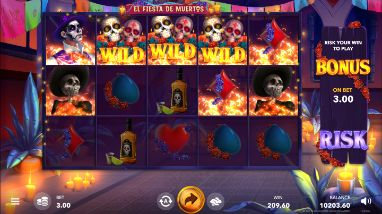
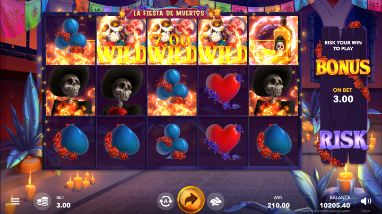
fiesta game rename

diff --git a/src/blog-sweepstakes.html b/src/blog-sweepstakes.html
@@ -73,7 +73,7 @@
   <title>Sweepstakes gaming systems</title>
   <meta name="description" content="Sweepstakes usage in gambling. Peculiarities of sweepstakes gaming systems">
   <meta name="viewport" content="height=device-height,width=device-width, initial-scale=1" />
-    <base href="https://mascot.games/">
+  <base href="https://mascot.games/">
   <link rel="stylesheet" href="css/all.unmin.css">
   <link rel="shortcut icon" href="/favicon.ico">
   <link rel="icon" sizes="16x16 32x32 64x64" href="/favicon.ico">
@@ -211,7 +211,7 @@
     <div class="container">
       <div class="text-block">
         <h5>About the sweepstakes</h5>
-        <p>Originally sweepstakes is a promotional tool for seize clients which can be described in a nutshell as “make some motion and take a chance to win a prize”. When we see Facebook publishing about a chance to win iPhone for the first dozen of company account subscribers or when a car brand registrate you as a participant in contest for Maldives tickets (as long as you buy their cars, of course) - all this is an old good sweepstakes game. </p>
+        <p>Originally sweepstakes is a promotional tool for seize clients which can be described in a nutshell as &ldquo;make some motion and take a chance to win a prize&rdquo;. When we see Facebook publishing about a chance to win iPhone for the first dozen of company account subscribers or when a car brand registrate you as a participant in contest for Maldives tickets (as long as you buy their cars, of course) &ndash; all this is an old good sweepstakes game. </p>
           <div class="blog-img-wrap" id="back_3"><img src="images/img_blog_entry1_2.jpg" alt="" class="text-block-img img-responsive image-center"></div>
         <p>
           The sweepstakes that is considered as a classic model of such promotion strategy is a well known McDonald's Monopoly game. This lottery is held by the biggest fast food chain all over the world for more than 30 years. The game implies the following: when you purchase something in a restaurant you get a coupon. Coupons value different: some of them are instantly exchanged for food, for example for cheeseburger. Other coupons display the fields of the Monopoly board and if you want to win something valuable you have to collect some property from this board. Obviously for collecting something really worthy you have to buy McDonald's food over and over again.
@@ -219,7 +219,7 @@
         <p>So what is the connection between the sweepstakes and iGaming?
         </p>
 
-        <p>Nowadays the sweepstakes cafes have a wide prevalence in gambling sphere. Sweepstakes cafe implied land-based gaming projects, which give a chance to win some prize when buying some service or product. Most often products or services are telephone cards or internet time, but in general “product” can represent anything. Entering the sweepstakes by buying this things consumer take a right to play some game (usually it's video-slot) without actually paying for it. If the guest doesn't pay to play, then he doesn't risk anything, which means that the game is not gambling. However, the prizes in this game are quite real and are expressed in money equivalent. Such practice helps to provide the opportunity to play slot-games in countries where gambling is illegal.
+        <p>Nowadays the sweepstakes cafes have a wide prevalence in gambling sphere. Sweepstakes cafe implied land-based gaming projects, which give a chance to win some prize when buying some service or product. Most often products or services are telephone cards or internet time, but in general &ldquo;product&rdquo; can represent anything. Entering the sweepstakes by buying this things consumer take a right to play some game (usually it's video-slot) without actually paying for it. If the guest doesn't pay to play, then he doesn't risk anything, which means that the game is not gambling. However, the prizes in this game are quite real and are expressed in money equivalent. Such practice helps to provide the opportunity to play slot-games in countries where gambling is illegal.
         </p>
       </div>
       <div class="single-blog-button-wrapper">

diff --git a/src/la-fiesta-de-muertos.html b/src/la-fiesta-de-muertos.html
@@ -67,8 +67,8 @@
   </script>
   <noscript><div><img src="https://mc.yandex.ru/watch/48502577" style="position:absolute; left:-9999px;" alt="" /></div></noscript>
     <meta charset="UTF-8">
-    <title>El Fiesta De Muertos video slot by Mascot Gaming</title>
-    <meta name="description" content="El Fiesta De Muertos by Mascot Gaming is a video slot with Bonus Game and Sticky Respin feature.">
+    <title>La Fiesta De Muertos video slot by Mascot Gaming</title>
+    <meta name="description" content="La Fiesta De Muertos by Mascot Gaming is a video slot with Bonus Game and Sticky Respin feature.">
     <meta name="viewport" content="height=device-height,width=device-width, initial-scale=1" />
     <base href="https://mascot.games/">
     <link rel="stylesheet" href="css/all.unmin.css">
@@ -91,13 +91,13 @@
     <link rel="apple-touch-icon" sizes="180x180" href="/favicon-180.png">
     <script src="js/all.unmin.js"></script>
     <meta content='summary_large_image' name='twitter:card'/>
-    <meta name="twitter:title" content="El Fiesta De Muertos video slot by Mascot Gaming" />
-    <meta name="twitter:description" content="El Fiesta De Muertos by Mascot Gaming is a video slot with Bonus Game and Sticky Respin feature." />
+    <meta name="twitter:title" content="La Fiesta De Muertos video slot by Mascot Gaming" />
+    <meta name="twitter:description" content="La Fiesta De Muertos by Mascot Gaming is a video slot with Bonus Game and Sticky Respin feature." />
     <meta name="twitter:image" content="https://mascot.games/images/game_fiesta.jpg" />
 
-    <meta property="og:title" content="El Fiesta De Muertos video slot by Mascot Gaming" />
-    <meta property="og:description" content="El Fiesta De Muertos by Mascot Gaming is a video slot with Bonus Game and Sticky Respin feature." />
-    <meta property="og:url" content="https://mascot.games/el-fiesta-de-muertos.html" />
+    <meta property="og:title" content="La Fiesta De Muertos video slot by Mascot Gaming" />
+    <meta property="og:description" content="La Fiesta De Muertos by Mascot Gaming is a video slot with Bonus Game and Sticky Respin feature." />
+    <meta property="og:url" content="https://mascot.games/la-fiesta-de-muertos.html" />
     <meta property="og:image" content="https://mascot.games/images/game_fiesta.jpg" />
 </head>
 
@@ -200,7 +200,7 @@
                       <a href="games.html" class="go-back"><span class="back-arrow"></span>Games</a>
                     </div>
                     <div class="col inner-header-title">
-                      <h1 class="light-title text-center">El Fiesta De Muertos</h1>
+                      <h1 class="light-title text-center">La Fiesta De Muertos</h1>
                       <!-- <p class="subtitle light-subtitle text-center">Find ancient treasures</p> -->
                     </div>
                   </div>
@@ -242,7 +242,7 @@
                   </div>
                   <div class="game-description-wrapper text-center">
                       <div class="game-slide-img-title">
-                          <img src="images/logo_fiesta.png" srcset="images/logo_fiesta@2x.png 2x" class="img-responsive" alt="El Fiesta De Muertos">
+                          <img src="images/logo_fiesta.png" srcset="images/logo_fiesta@2x.png 2x" class="img-responsive" alt="La Fiesta De Muertos">
                       </div>
                       <p class="game-slide-descr">Bring your masks and calaveras, and may the dead repay you with great treasures!</p>
                       <div class="game-description__game-type">Video slot</div>

diff --git a/src/index.html b/src/index.html
@@ -229,11 +229,11 @@
   <div class="header-slider__wrap">
     <div class="header-slider mobile">
       <div class="game1__wrap tile">
-        <img class="img-responsive" src="images/game_fiesta.jpg" alt="El Fiesta De Muertos" />
+        <img class="img-responsive" src="images/game_fiesta.jpg" alt="La Fiesta De Muertos" />
         <div class="game-overlay">
-          <a href="el-fiesta-de-muertos.html">
+          <a href="la-fiesta-de-muertos.html">
           <div class="game-overlay__top">
-            <div class="game-overlay__top-title">El Fiesta De Muertos</div>
+            <div class="game-overlay__top-title">La Fiesta De Muertos</div>
             <div class="game-overlay__top-info"><span>Learn more</span><span class="info-icon">i</span></div>
           </div>
           </a>
@@ -274,11 +274,11 @@
     </div>
       <div class="top-row-games desktop">
         <div class="tile tile-big">
-          <img class="img-responsive" src="images/game_fiesta.jpg" alt="El Fiesta De Muertos" />
+          <img class="img-responsive" src="images/game_fiesta.jpg" alt="La Fiesta De Muertos" />
           <div class="game-overlay">
-            <a href="el-fiesta-de-muertos.html">
+            <a href="la-fiesta-de-muertos.html">
             <div class="game-overlay__top">
-              <div class="game-overlay__top-title">El Fiesta De Muertos</div>
+              <div class="game-overlay__top-title">La Fiesta De Muertos</div>
               <div class="game-overlay__top-info"><span>Learn more</span><span class="info-icon">i</span></div>
             </div>
 

diff --git a/src/games.html b/src/games.html
@@ -225,11 +225,11 @@
                 <div id="portfolio">
                   <div class="top-row-games">
                     <div class="tile tile-big scale-anm topgames trafficgames riskandbuy videoslots all">
-                      <img class="img-responsive" src="images/game_fiesta.jpg" alt="El Fiesta de Muertos" />
+                      <img class="img-responsive" src="images/game_fiesta.jpg" alt="La Fiesta de Muertos" />
                       <div class="game-overlay">
-                        <a href="el-fiesta-de-muertos.html">
+                        <a href="la-fiesta-de-muertos.html">
                         <div class="game-overlay__top">
-                          <div class="game-overlay__top-title">El Fiesta de Muertos</div>
+                          <div class="game-overlay__top-title">La Fiesta de Muertos</div>
                           <div class="game-overlay__top-info"><span>Learn more</span><span class="info-icon">i</span></div>
                         </div>
 

diff --git a/src/aloha-tiki-bar.html b/src/aloha-tiki-bar.html
@@ -213,7 +213,7 @@
               <div class="row">
                 <div class="col-sm-6 col-md-2">
                   <div class="previous-game">
-                      <a href="el-fiesta-de-muertos.html">
+                      <a href="la-fiesta-de-muertos.html">
                           <span class="icon-game"><span class="icon-game-arrow icon-game-arrow-prev"></span></span>
                           <span class="game-link"><span>Previous</span><span>game</span></span>
                       </a>

diff --git a/src/hydras-lair.html b/src/hydras-lair.html
@@ -221,7 +221,7 @@
                 </div>
                 <div class="col-sm-6 col-md-2 col-md-push-8">
                   <div class="next-game">
-                      <a href="el-fiesta-de-muertos.html">
+                      <a href="la-fiesta-de-muertos.html">
                           <span class="game-link"><span>Next</span><span>game</span></span>
                           <span class="icon-game"><span class="icon-game-arrow icon-game-arrow-next"></span></span>
                       </a>

diff --git a/src/js/all.unmin.js b/src/js/all.unmin.js
@@ -6242,7 +6242,7 @@ $(function () {
   }
   if (btnClassName.indexOf('fie') >= 0) {
     $(this).attr('href', function() {
-      return thePath + 'el-fiesta-de-muertos.html';
+      return thePath + 'la-fiesta-de-muertos.html';
     });
   }
   });
